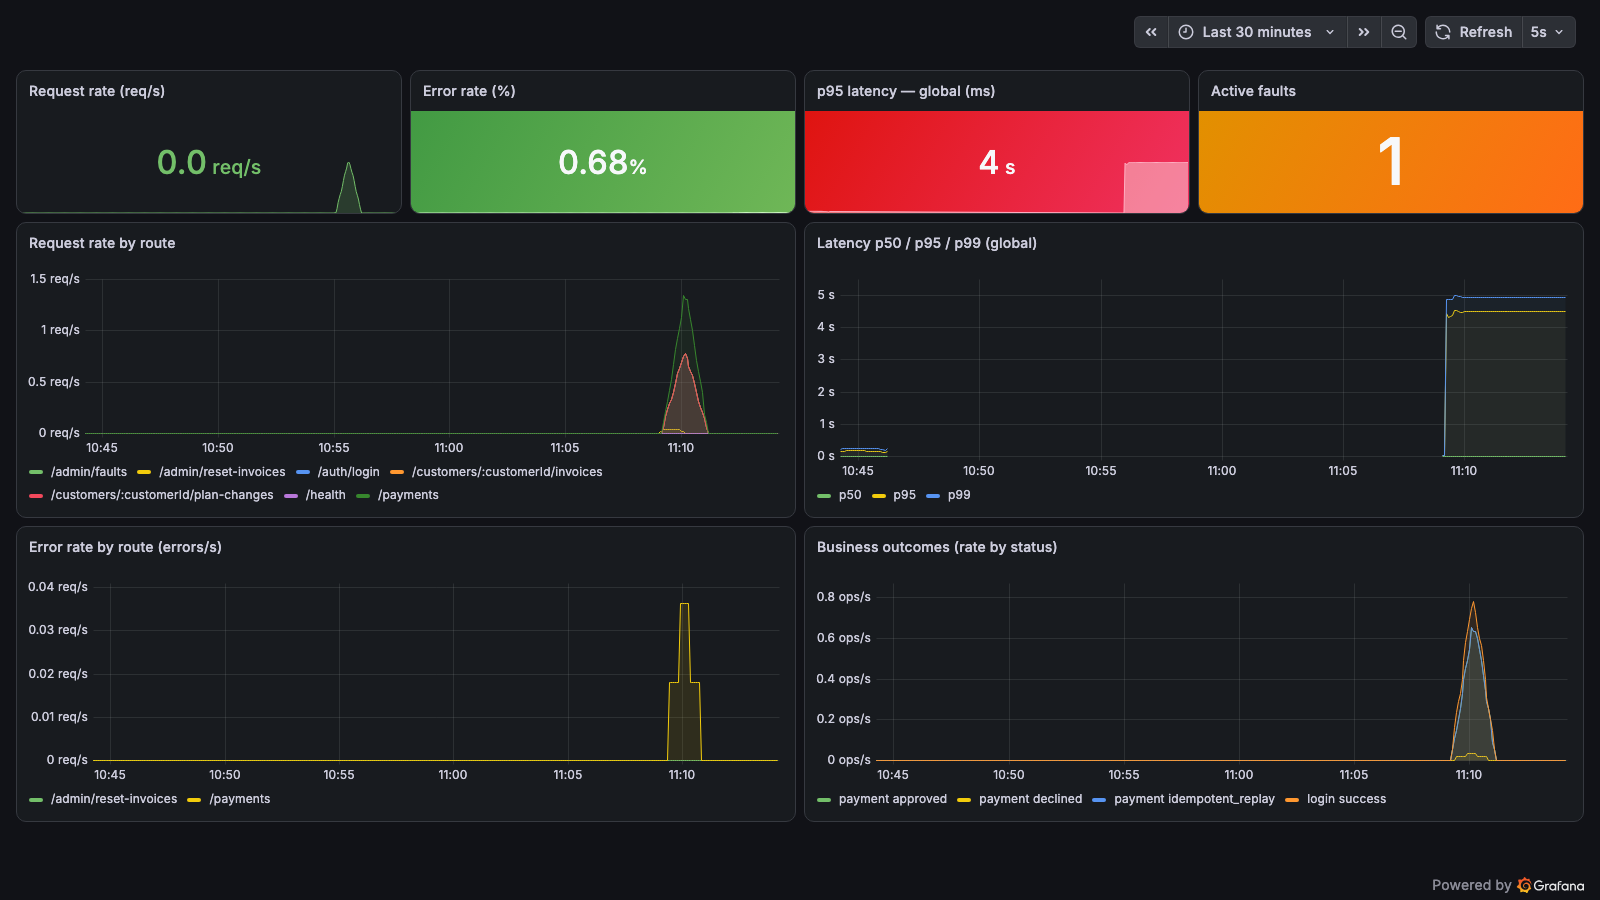
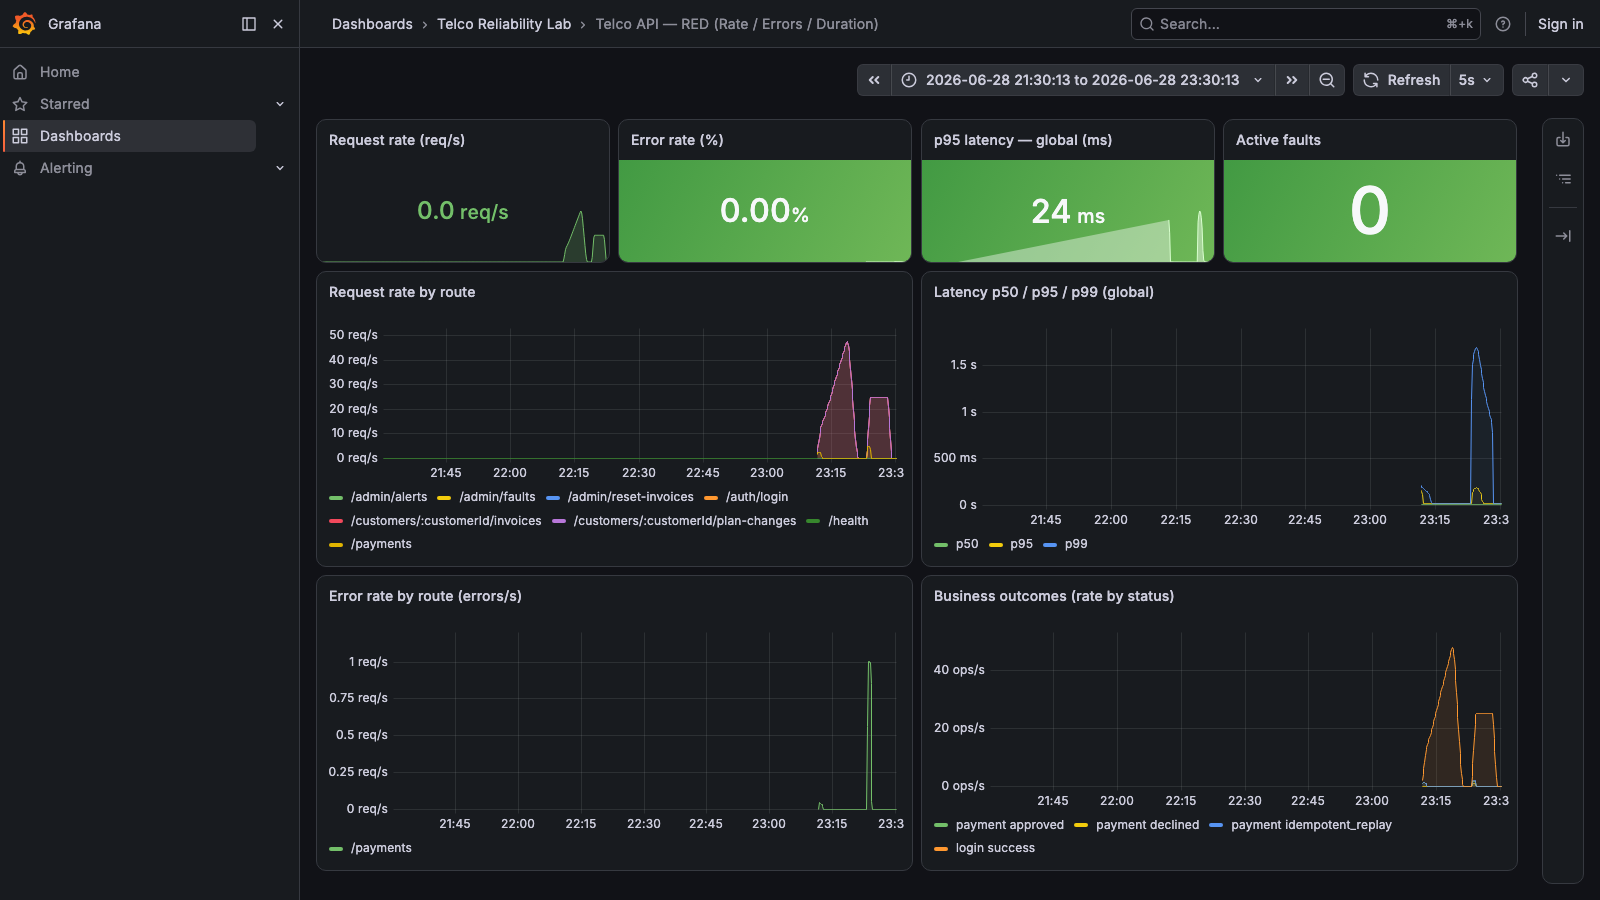
docs: add Grafana dashboard screenshots for portfolio
4 dashboards captured with real load + fault injection data:
- API RED: traffic spike, p99 latency, business outcomes
- SLO Overview: payment p95 breach (3s vs 1500ms SLO), 100% availability
- k6 Test Run: VUs, 56 req/s, per-journey latency (remote-write)
- Reliability & Degradation: 206 idempotent replays, latency spike, Loki logs

diff --git a/docs/screenshots/README.md b/docs/screenshots/README.md
@@ -1,21 +1,19 @@
 # Grafana Dashboard Screenshots
 
-Capturados durante un `make smoke-breach` con fault injection activo:
-**3 s de latencia forzada en 100% de pagos** → payment p95 excede el SLO de 1500 ms.
+Capturados durante un `make degradation` con fault injection activo (2s de latencia en 100% de pagos → payment p95 excede el SLO de 1500 ms) más un `make load` previo para datos de tráfico base.
 
 | Archivo | Dashboard | Qué muestra |
 |---|---|---|
-| [01-api-red.png](01-api-red.png) | Telco API — RED | p95 global = 4 s, Active faults = 1, spike de latencia en `/payments` |
-| [02-k6-run.png](02-k6-run.png) | k6 Test Run | VUs, req/s, checks pass rate (rojo = 95.3% en journeys de pago), latencia por journey |
-| [03-slo-overview.png](03-slo-overview.png) | SLO Overview | Payment p95 = 5 s (rojo, breach del SLO < 1500 ms); login/invoice/plan en verde |
-| [04-reliability.png](04-reliability.png) | Reliability & Degradation | Active faults = 1, payment p95 = 5 s, 221 replays idempotentes, logs de traces en vivo |
+| [01-api-red.png](01-api-red.png) | Telco API — RED | Request rate por ruta, error rate, spike de latencia p99 en `/payments`, Business outcomes (payment approved / declined / idempotent_replay) |
+| [02-slo-overview.png](02-slo-overview.png) | SLO Overview | Login/invoice/plan en verde · **Payment p95 = 3 s en rojo** (breach SLO < 1500 ms) · Error rate 0% · Synthetic availability 100% |
+| [03-k6-run.png](03-k6-run.png) | k6 Test Run | VUs activos, 56 req/s, iteraciones/s, checks pass rate, latencia p95 por journey (remote-write) |
+| [04-reliability.png](04-reliability.png) | Reliability & Degradation | Active faults = 0 (limpiado) · Payment p95 = 3 s (rojo) · **206 idempotent replays** · Spike de latencia antes/durante/después del fallo · Loki logs con trace_id |
 
 ## Cómo reproducir
 
 ```bash
 make up          # levantar el stack
-make smoke-breach  # inyecta fault + corre smoke + limpia fault + genera HTML
-# Dashboards visibles en http://localhost:3001 (carpeta "Telco Reliability Lab")
+make load        # genera tráfico base (popula API RED y SLO Overview)
+make degradation # inyecta fault + corre bajo carga + limpia fault + remote-write a Prometheus
+# Dashboards en http://localhost:3001 (carpeta "Telco Reliability Lab")
 ```
-
-El archivo `tests/k6/reports/smoke-breach-report.html` es el reporte HTML estático del run fallido.